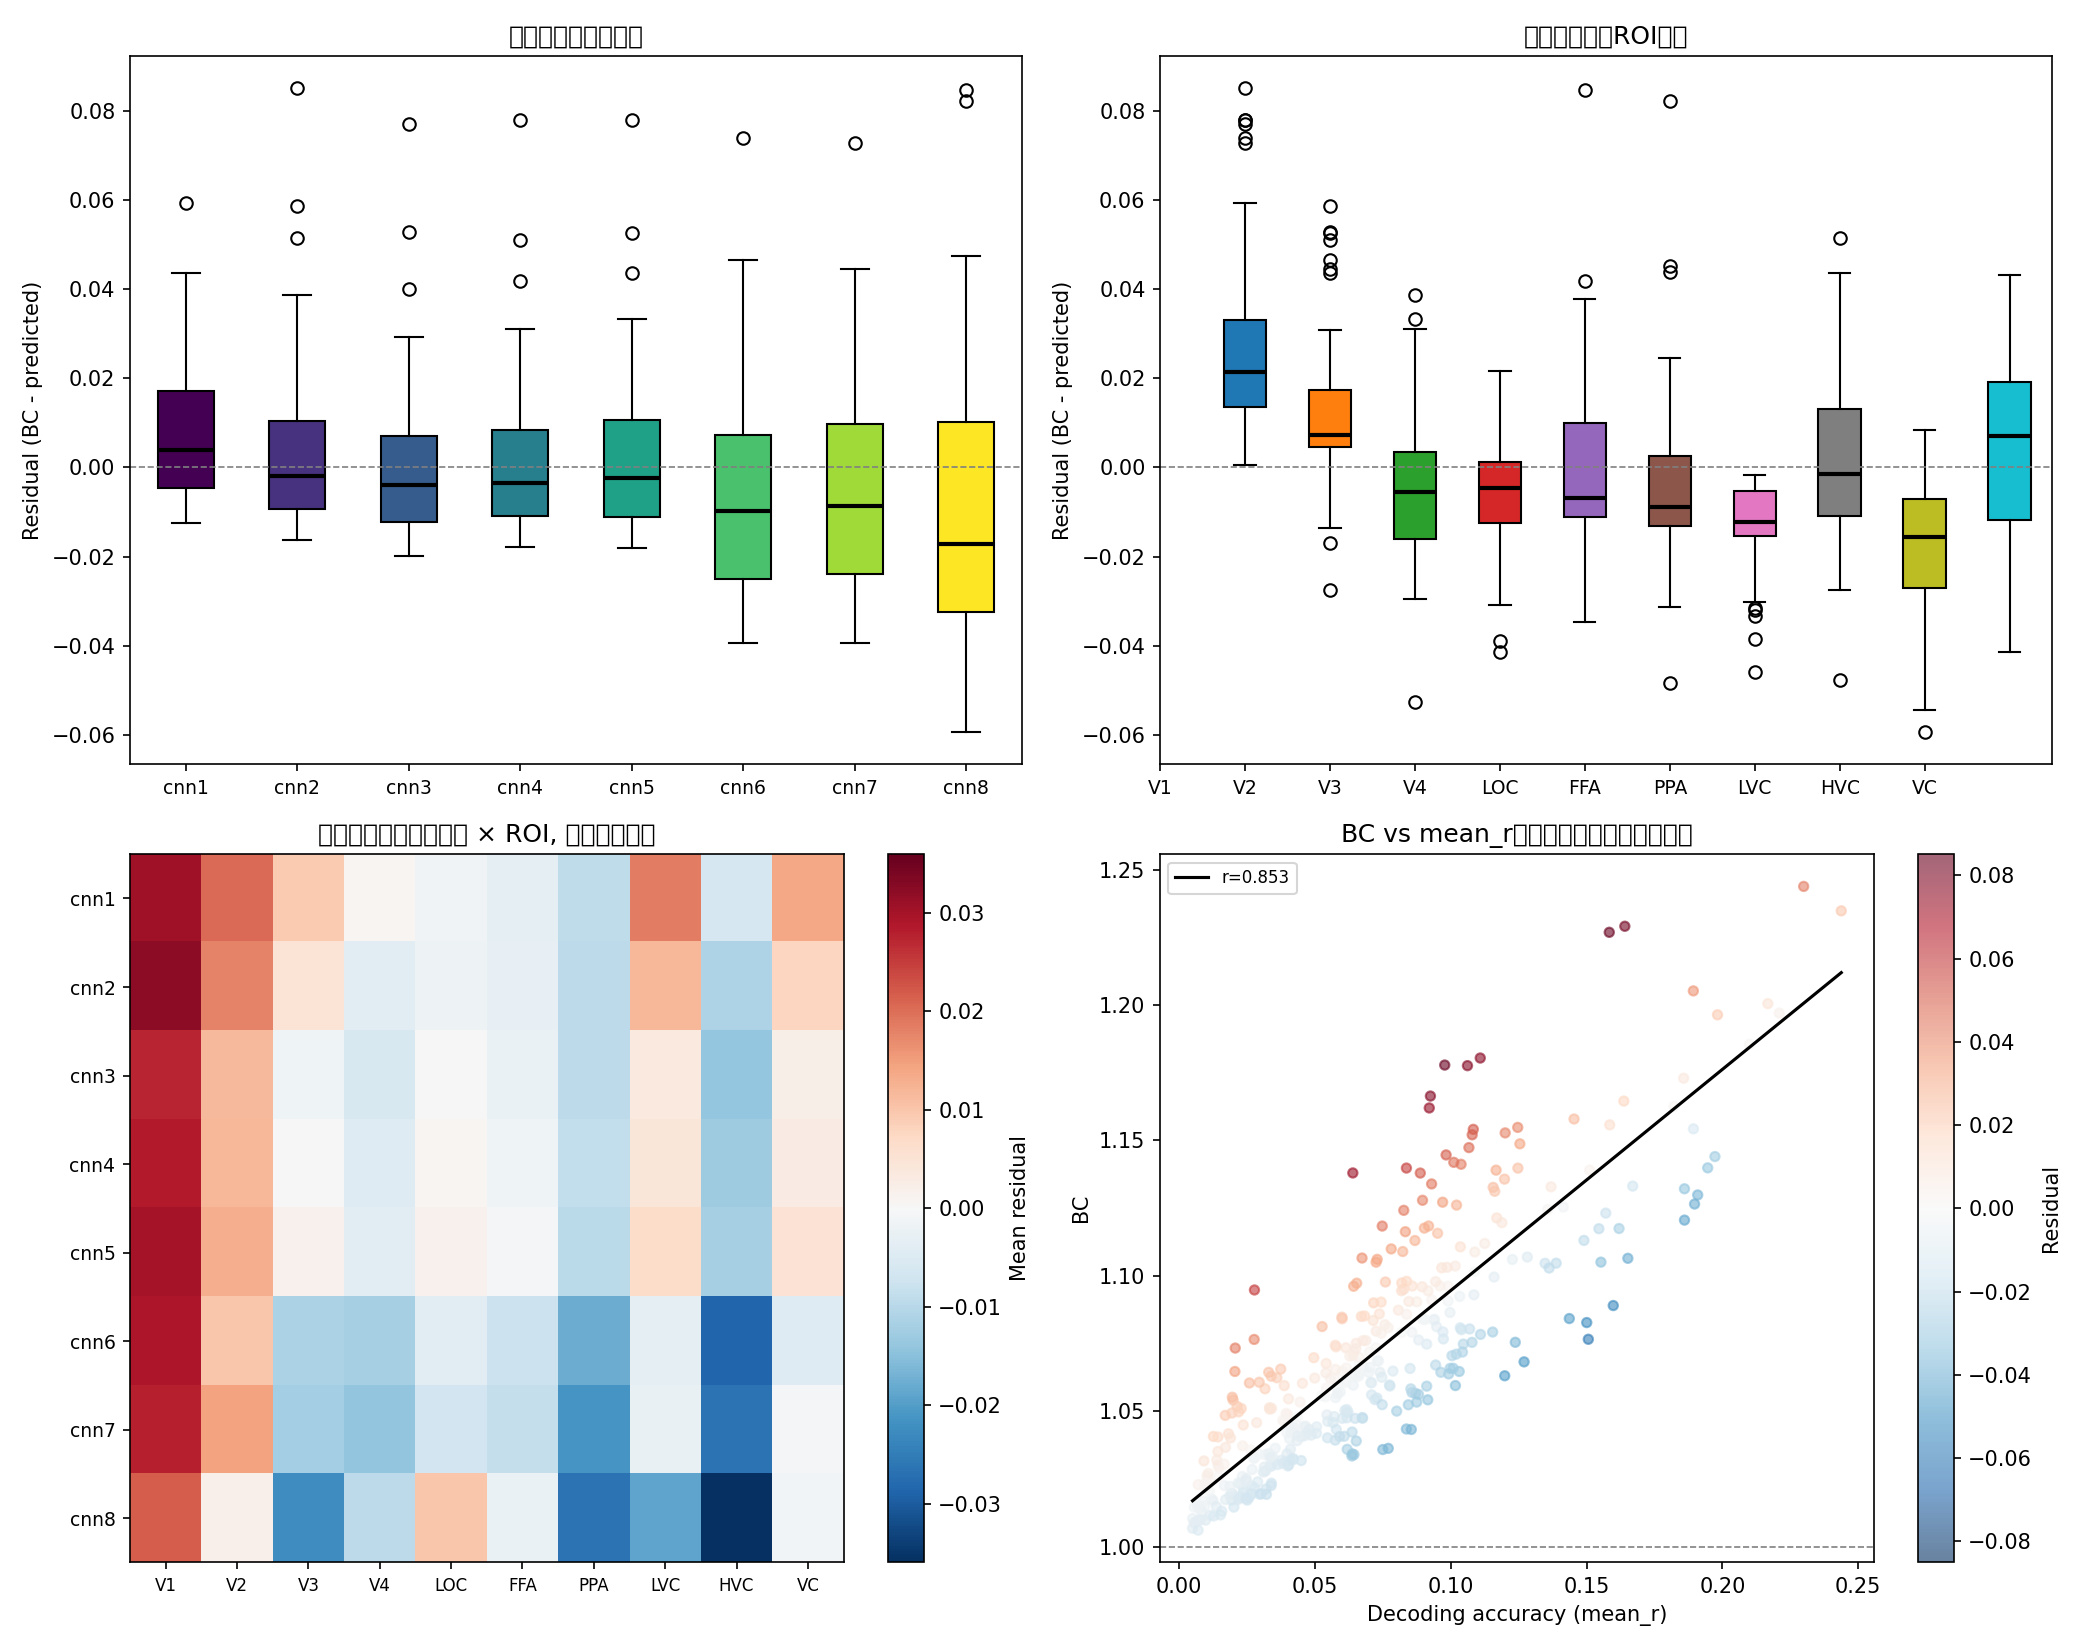
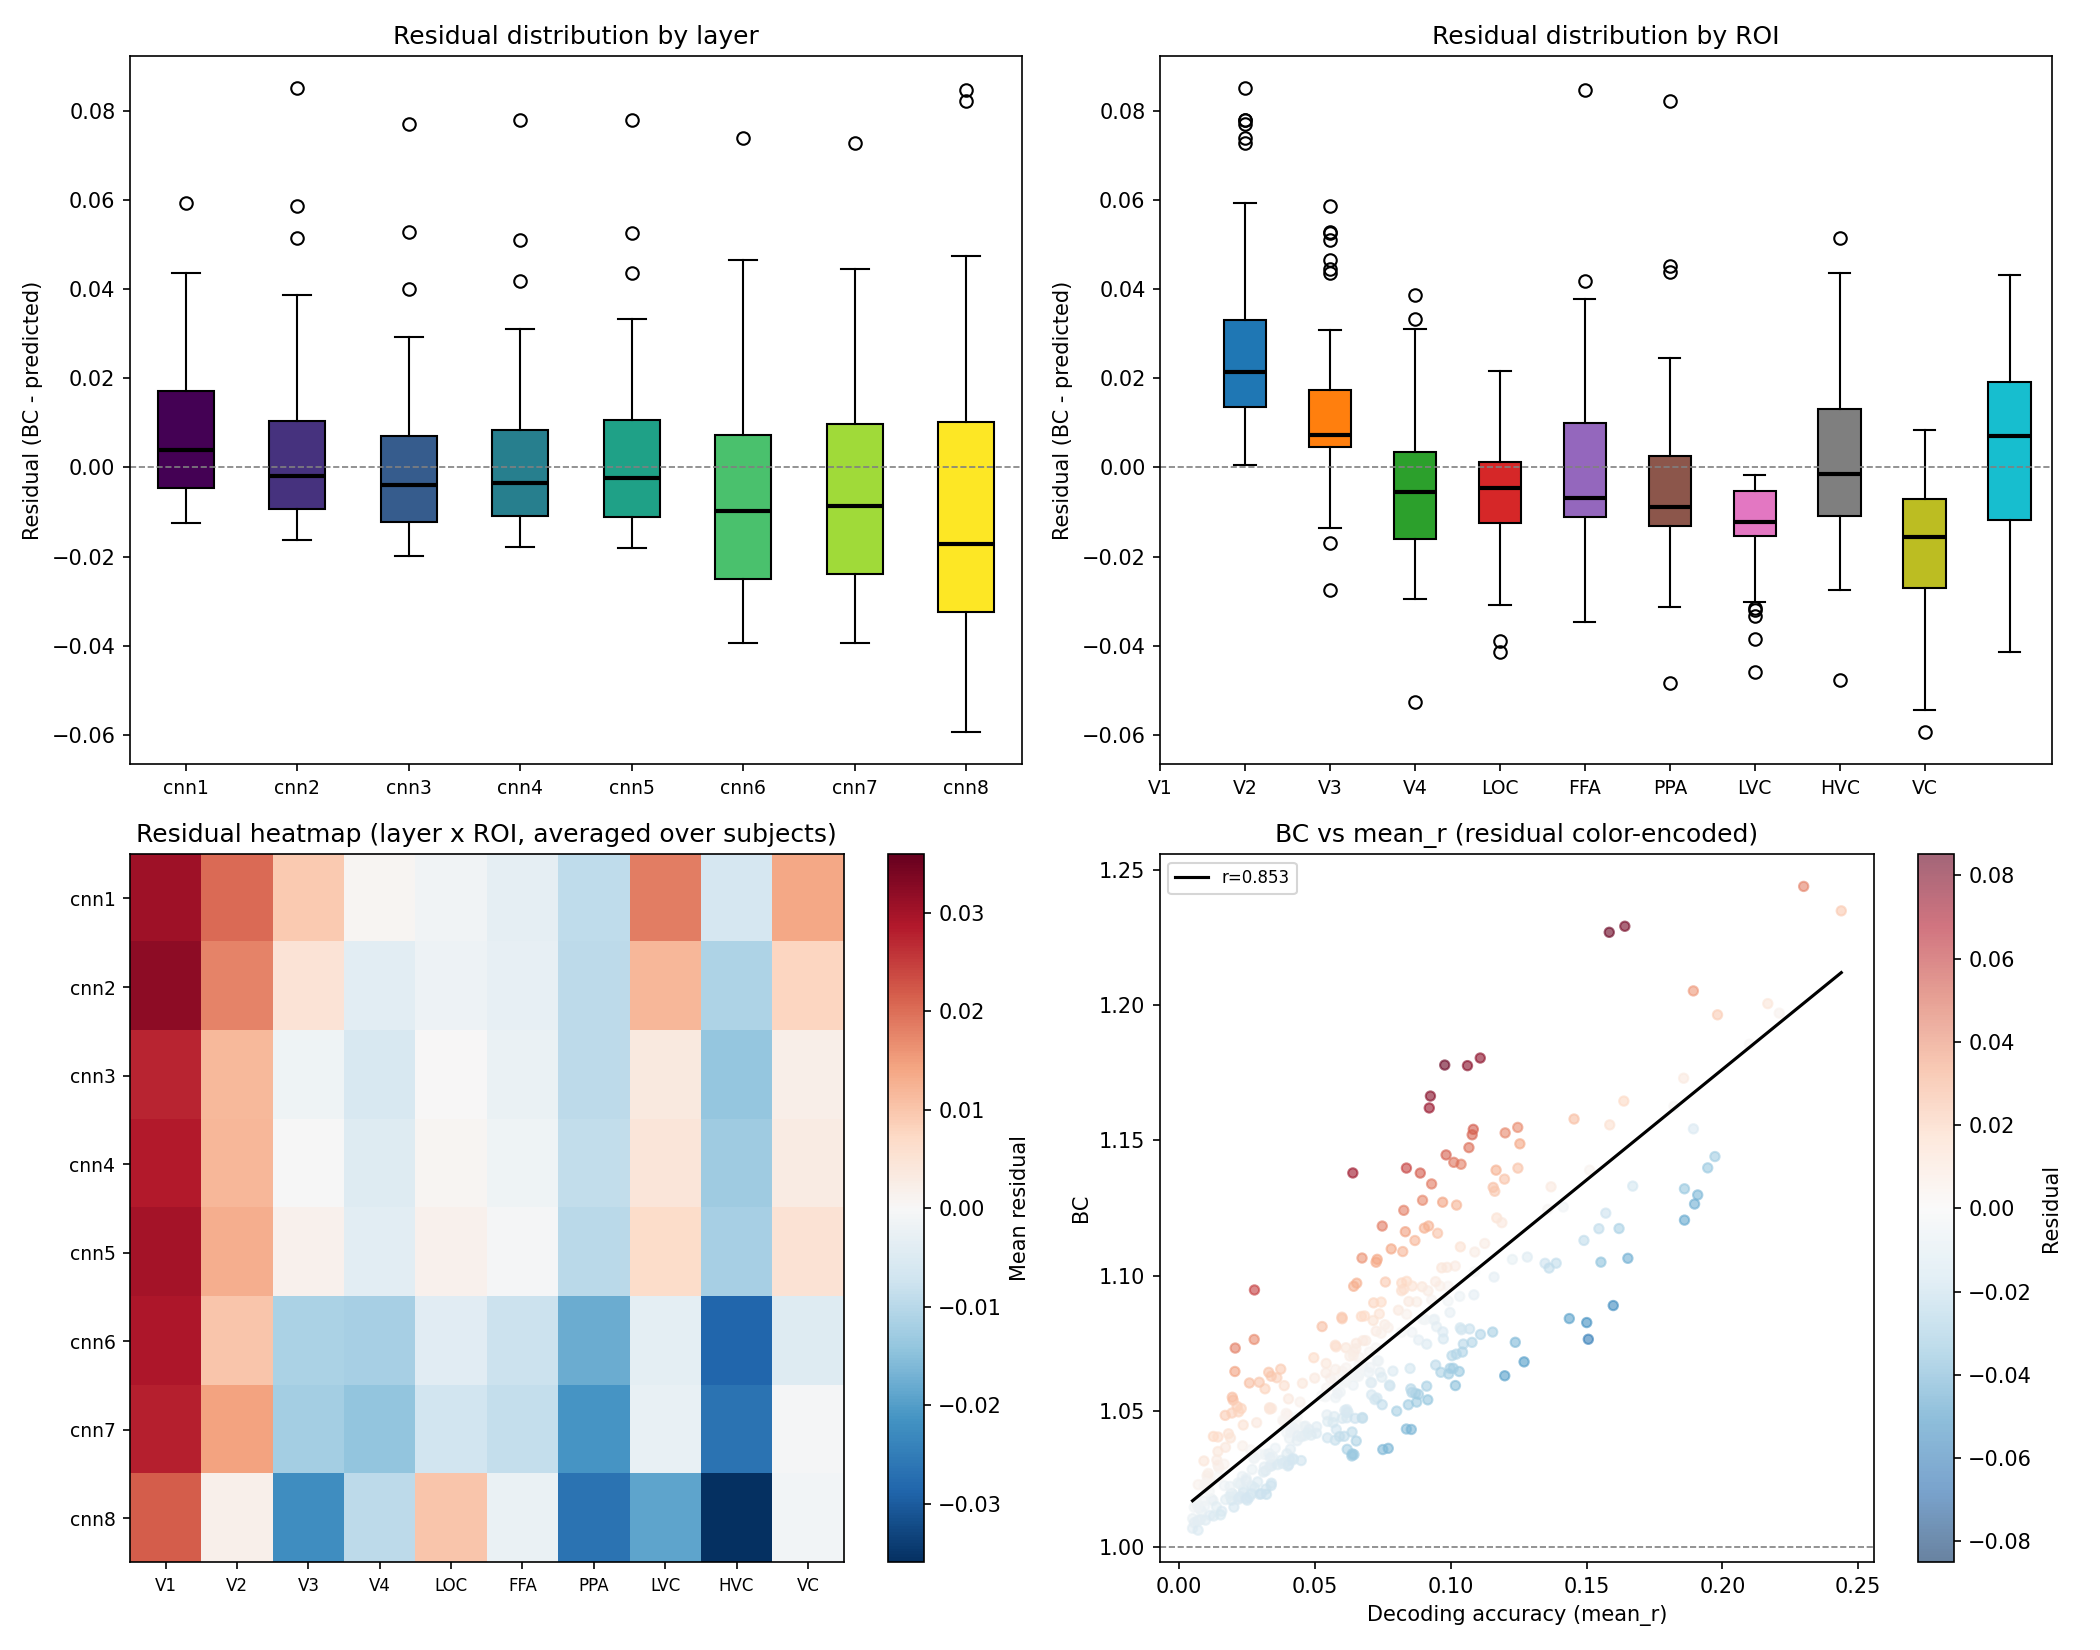
画像の文字化け修正

diff --git a/experiments/exp09_bc_residual.py b/experiments/exp09_bc_residual.py
@@ -87,7 +87,7 @@ def analyze_residuals(results):
     ax.set_xticklabels(ALL_LAYERS, fontsize=9)
     ax.axhline(0, color="gray", lw=0.8, ls="--")
     ax.set_ylabel("Residual (BC - predicted)")
-    ax.set_title("残差の分布（層別）")
+    ax.set_title("Residual distribution by layer")
 
     # (2) 残差の分布（ROI別）
     ax = axes[0, 1]
@@ -105,7 +105,7 @@ def analyze_residuals(results):
     ax.set_xticklabels([roi_short[r] for r in ALL_ROIS], fontsize=9)
     ax.axhline(0, color="gray", lw=0.8, ls="--")
     ax.set_ylabel("Residual (BC - predicted)")
-    ax.set_title("残差の分布（ROI別）")
+    ax.set_title("Residual distribution by ROI")
 
     # (3) 層 × ROI の残差ヒートマップ
     ax = axes[1, 0]
@@ -124,7 +124,7 @@ def analyze_residuals(results):
     ax.set_yticks(range(len(ALL_LAYERS)))
     ax.set_yticklabels(ALL_LAYERS, fontsize=9)
     plt.colorbar(im, ax=ax, label="Mean residual")
-    ax.set_title("残差ヒートマップ（層 × ROI, 被験者平均）")
+    ax.set_title("Residual heatmap (layer x ROI, averaged over subjects)")
 
     # (4) BC vs mean_r（残差を色で表現）
     ax = axes[1, 1]
@@ -137,7 +137,7 @@ def analyze_residuals(results):
     ax.axhline(1.0, color="gray", lw=0.8, ls="--")
     ax.set_xlabel("Decoding accuracy (mean_r)")
     ax.set_ylabel("BC")
-    ax.set_title("BC vs mean_r（残差を色でエンコード）")
+    ax.set_title("BC vs mean_r (residual color-encoded)")
     ax.legend(fontsize=8)
 
     fig.tight_layout()

diff --git a/experiments/exp07_bc_per_category.py b/experiments/exp07_bc_per_category.py
@@ -194,7 +194,7 @@ def main():
     ax.axvline(np.mean(bc_s), color="black", lw=1, ls="--", label=f"mean={np.mean(bc_s):.3f}")
     ax.axvline(1.0, color="gray", lw=0.8, ls=":")
     ax.set_xlabel("BC (other-category broken)")
-    ax.set_title("案1: BC per category\n(broken = other-category sampling)")
+    ax.set_title("Alt: BC per category\n(broken = other-category sampling)")
     ax.legend(fontsize=8)
     ax.invert_yaxis()
 
@@ -212,7 +212,7 @@ def main():
     ax.axhline(1.0, color="gray", lw=0.8, ls="--")
     ax.set_xlabel("Var(preserved)")
     ax.set_ylabel("BC (other-category)")
-    ax.set_title("案1: BC(other) vs Var(preserved)")
+    ax.set_title("Alt: BC(other) vs Var(preserved)")
     ax.legend(fontsize=8)
 
     # (3) BC(across) vs BC(other) 比較
@@ -225,8 +225,8 @@ def main():
     slope2, intercept2, r2, p2, _ = stats.linregress(bc_across_arr, bc_other_arr)
     x2 = np.linspace(bc_across_arr.min(), bc_across_arr.max(), 100)
     ax.plot(x2, slope2 * x2 + intercept2, "r-", lw=1.5, label=f"r={r2:.3f}")
-    ax.set_xlabel("BC (across-shuffle, 旧)")
-    ax.set_ylabel("BC (other-category, 案1)")
+    ax.set_xlabel("BC (across-shuffle, original)")
+    ax.set_ylabel("BC (other-category, alt)")
     ax.set_title("across vs other-category BC")
     ax.legend(fontsize=8)
 

diff --git a/experiments/exp08_bc_ed_joint.py b/experiments/exp08_bc_ed_joint.py
@@ -90,7 +90,7 @@ def plot_bc_ed(results):
     ax.axhline(1.0, color="gray", lw=0.8, ls="--")
     ax.set_xlabel("Effective Dimensionality (ED)")
     ax.set_ylabel("BC")
-    ax.set_title("BC × ED  (Subject1, all ROIs × all layers)")
+    ax.set_title("BC x ED  (Subject1, all ROIs x all layers)")
 
     # ── (2) 層ごとの BC・ED 平均軌跡 ──
     ax = axes[1]
@@ -109,7 +109,7 @@ def plot_bc_ed(results):
     ax.axhline(1.0, color="gray", lw=0.8, ls="--")
     ax.set_xlabel("Mean ED (averaged over ROIs)")
     ax.set_ylabel("Mean BC (averaged over ROIs)")
-    ax.set_title("Layer trajectory in BC × ED space\n(Subject1, ROI-averaged)")
+    ax.set_title("Layer trajectory in BC x ED space\n(Subject1, ROI-averaged)")
 
     fig.tight_layout()
     fig.savefig("outputs/bc_ed_joint.png", dpi=150, bbox_inches="tight")
